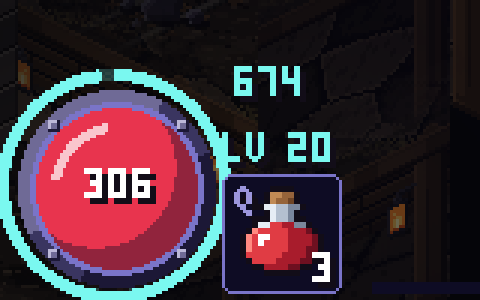
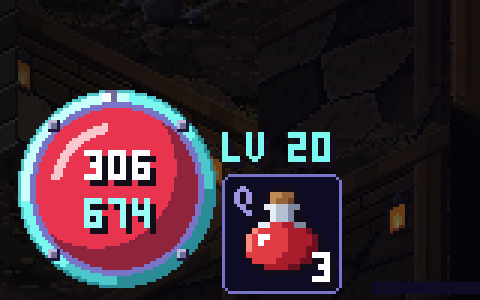
Barrier on the life globe's own band, its number inside the globe (his “make it look nicer in the UI around the life globe”)
The ring stood out past the globe, under the flask, and its number sat on his level. Now the globe's iron band
lights cyan as far as the barrier is full, a spark at its end, and the number sits in the globe under his
life's; the same on a phone. Pictures in docs/mockups/barrier_look; defence check 17 of 17.

Claude-Session: https://claude.ai/code/session_01JYSqoXN7a7JwY3VV4ST5md

diff --git a/docs/mockups/barrier_look/index.html b/docs/mockups/barrier_look/index.html
@@ -66,6 +66,7 @@ video { width: 100%; height: auto; aspect-ratio: 10 / 7; border-radius: 4px; bac
     <h2>What changed</h2>
     <ul class="list">
       <li>No bubble for barrier. It shows only on your health globe and the thin cyan line over your life bar.</li>
+      <li>On the globe: the globe's own iron band lights up cyan as far as your barrier is full, and its number sits inside the globe under your life. Nothing runs under the potion or over your level any more.</li>
       <li>A Guarding meld with a barrier no longer keeps its shell on you. Its moment still plays as it tops your barrier up.</li>
       <li>More barrier than life: a soft glow round your hero and a pool of light at your feet. It's cyan, not blue, because your rulebook keeps friendly glows cyan, and it matches the barrier on your globe.</li>
       <li>Double your life or more: the glow is brighter and wider, and motes of light rise off your hero.</li>
@@ -78,7 +79,8 @@ video { width: 100%; height: auto; aspect-ratio: 10 / 7; border-radius: 4px; bac
       <div class="pic"><b>A little more barrier than life (1.3 times)</b><div class="two"><img src="before_glow1.png" alt="before"><img src="glow1.png" alt="after"></div><p>Left before: the bubble. Right after: a soft cyan glow.</p></div>
       <div class="pic"><b>Double your life (2.2 times)</b><div class="two"><img src="before_glow2.png" alt="before"><img src="glow2.png" alt="after"></div><p>Right: brighter and wider, with motes of light rising.</p></div>
       <div class="pic"><b>Sanctuary in front, with a barrier</b><div class="two"><img src="before_sanct.png" alt="before"><img src="sanct.png" alt="after"></div><p>Left: two bubbles. Right: none, just the glow from her barrier.</p></div>
-      <div class="pic"><b>Your barrier, on your globe</b><img src="globe.png" alt="globe"><p>The cyan ring round your globe and the number over it, as before.</p></div>
+      <div class="pic"><b>Your barrier, on your globe</b><div class="two"><img src="globe_before.png" alt="before"><img src="globe.png" alt="after"></div><p>Your words: “can you make it look nicer in the UI around the life globe? It behind the potion widget and overlapping the player level”. Left before: the ring stood out past the globe, under the potion, and its number sat on your level. Right after: the globe's own iron band lights up cyan, and the barrier number sits inside the globe under your life.</p></div>
+      <div class="pic"><b>Part spent, and on a phone</b><div class="two"><img src="globe_part.png" alt="part spent"><img src="globe_phone.png" alt="phone"></div><p>The band lights only as far as your barrier is full, with a spark at its end; the rest stays iron. On a phone the globe sits at the top, just as tidy.</p></div>
     </div>
   </section>
   <section class="wide">

diff --git a/docs/mockups/barrier_look/README.md b/docs/mockups/barrier_look/README.md
@@ -20,9 +20,15 @@ NOTHING HERE IS LIVE WITHOUT HIS YES (pictures first).
 - The Guarding melds' shells (fx_m52p_guard.gd, fx_m52p_last110.gd) and the melds' motes (fx_melds52.gd) only while a shield holds,
   no longer while a barrier does. Their moments at a top-up still play.
 - Guarding's own shield with no barrier: its own bubble (fx_words610.gd), unchanged.
+- THE GLOBE (his words on seeing the first pictures, 27 Nov 2026: “Yeah can you make it look nicer in the UI around the life globe?
+  It behind the potion widget and overlapping the player level”): hud.gd `_barrier_band`: the barrier on the globe's own iron band,
+  lit cyan from the top round as far as it is full, a spark at its end, the rivets over it; its number inside the globe under his
+  life's (his life's raised a little). Nothing past the globe's edge any more: not under the flask, not over his level; the same on
+  a phone, the globe at the top.
 
 ## Checks
 
-- `--only=barrierlook --shots=<dir>` (check_barrierlook.gd, new): the pictures, 3 checks, 0 wrong. Before pictures taken with the
+- `--only=barrierlook --shots=<dir>` (check_barrierlook.gd, new): the pictures (the globe full, part spent, and as a phone
+  shows it among them), 3 checks, 0 wrong. Before pictures taken with the
   painters and hero.gd as at 3919ae5e.
 - `--only=defence`: 17 checks, 0 wrong.
